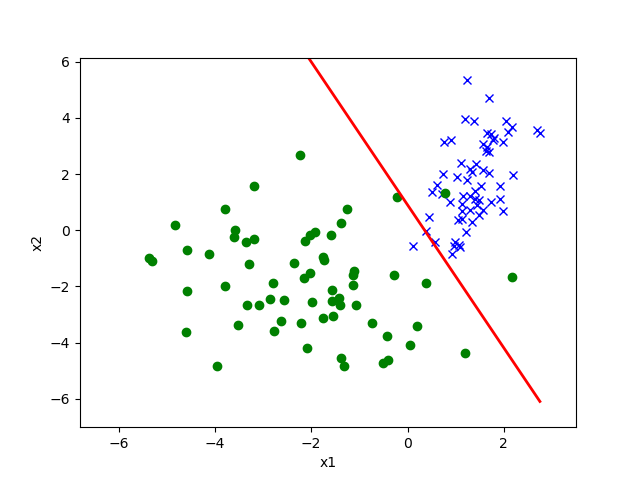
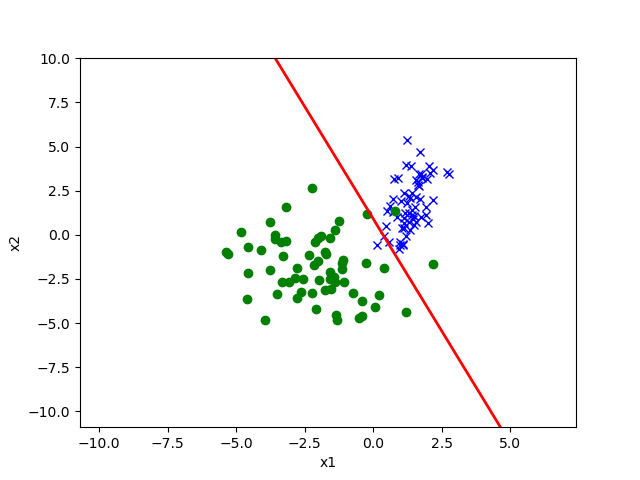
Solve 2b

diff --git a/ps1/src/posonly/posonly.py b/ps1/src/posonly/posonly.py
@@ -27,23 +27,26 @@ def main(train_path, valid_path, test_path, save_path):
     output_path_adjusted = save_path.replace(WILDCARD, 'adjusted')
 
     x_train, t_train = util.load_dataset(train_path, label_col='t', add_intercept=True)
+    _, y_train = util.load_dataset(train_path, label_col='y', add_intercept=True)
     x_test, t_test = util.load_dataset(test_path, label_col='t', add_intercept=True)
 
-    xlim, ylim = util.get_lim(x_train, x_test)
+    xlim, ylim = util.get_lim([x_train, x_test], 4)
 
     util.plot(x_train, t_train, None, f'{train_path}.png', xlim, ylim)
 
     # *** START CODE HERE ***
     # Part (a): Train and test on true labels
-    util.print_matrix(x_train, 'x_train')
     lr = LogisticRegression(verbose=False)
     lr.fit(x_train, t_train)
     util.plot(x_test, t_test, lr.theta, f'{output_path_true}.png', xlim, ylim)
     np.savetxt(output_path_true, lr.predict(x_test))
 
-    # Make sure to save predicted probabilities to output_path_true using np.savetxt()
     # Part (b): Train on y-labels and test on true labels
-    # Make sure to save predicted probabilities to output_path_naive using np.savetxt()
+    lr = LogisticRegression(verbose=False)
+    lr.fit(x_train, y_train)
+    util.plot(x_test, t_test, lr.theta, f'{output_path_naive}.png', xlim, ylim)
+    np.savetxt(output_path_naive, lr.predict(x_test))
+
     # Part (f): Apply correction factor using validation set and test on true labels
     # Plot and use np.savetxt to save outputs to output_path_adjusted
     # *** END CODER HERE
